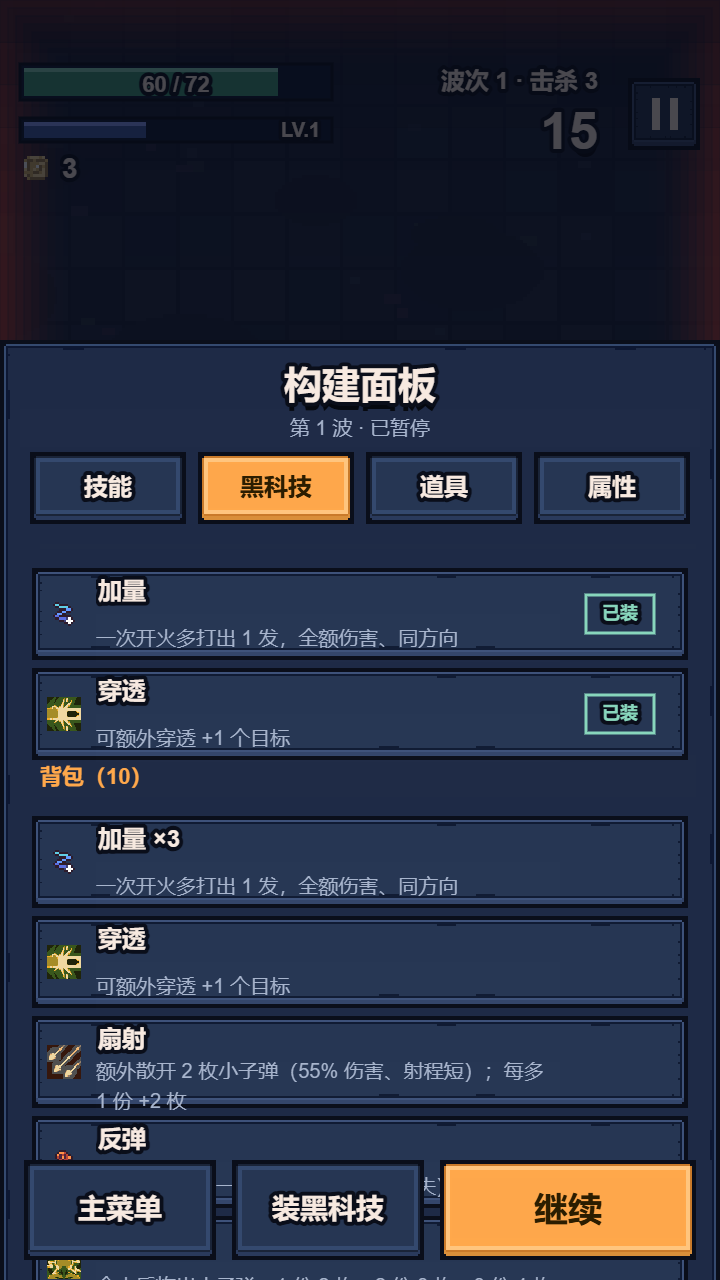
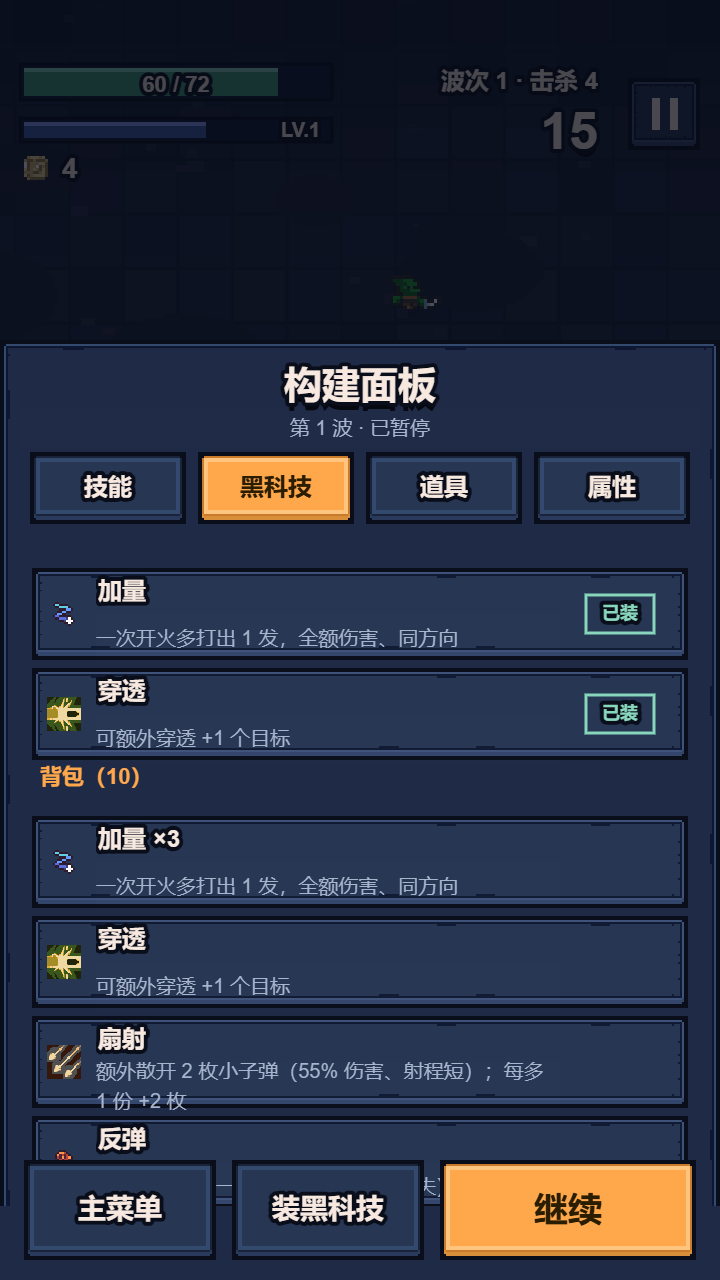
图鉴详情卡排版修复；图鉴/成就/抽屉只渲染完整行；图鉴看到即解锁（商店货架+升级卡）；抽屉底部加底板

diff --git a/cocos/assets/scripts/ui/Modals.ts b/cocos/assets/scripts/ui/Modals.ts
@@ -600,7 +600,7 @@ export function buildBuildDrawer(parent: Node, pages: BuildPageData[],
   // ── 黑科技页：结构化列表（图标 + 名称/数量 + 效果），**已装与背包分开** ──
   // 可视窗口本身要**有真实尺寸**，否则触摸事件不会落在它上面（这是滚不动的真因）
   const VIEW_TOP = bodyY + 12;
-  const VIEW_BOTTOM = -VH / 2 + 92;
+  const VIEW_BOTTOM = -VH / 2 + 120;   // 让列表停在按钮带更上方，配合底部底板彻底不重叠
   const VIEW_H = Math.max(40, VIEW_TOP - VIEW_BOTTOM);
   const VIEW_CY = (VIEW_TOP + VIEW_BOTTOM) / 2;
   const modRoot = mkNode(drawer, 'modDetail', VW - 8, VIEW_H, 0, VIEW_CY);
@@ -654,8 +654,10 @@ export function buildBuildDrawer(parent: Node, pages: BuildPageData[],
     let cursor = top;
     for (const l of lines) {
       const h = l.kind === 'head' ? HEAD_H : ROW_H + ROW_GAP;
-      // 只画视口内的项
-      if (cursor < -VIEW_H / 2 - h || cursor - h > VIEW_H / 2 + 8) { cursor -= h; continue; }
+      // 只画**完整落在视口内**的项：半截行会溢到下面的按钮带上（用户 2026-10-30 截图）
+      const bottom = cursor - h;
+      if (l.kind === 'row' && (bottom < -VIEW_H / 2 + 2 || cursor > VIEW_H / 2 - 2)) { cursor -= h; continue; }
+      if (l.kind === 'head' && (bottom < -VIEW_H / 2 + 2 || cursor > VIEW_H / 2 - 2)) { cursor -= h; continue; }
       if (l.kind === 'head') {
         text(modRoot, -W / 2 + 4, cursor - 4, l.label,
           { size: 11, color: COL.accent, align: 'left', width: W, bold: true, outline: false });
@@ -722,6 +724,16 @@ export function buildBuildDrawer(parent: Node, pages: BuildPageData[],
   //    左右边距 12，按钮间距 8，可用宽 336：
   //      两个按钮：96 + 8 + 232 = 336
   //      三个按钮：96 + 8 + 96 + 8 + 128 = 336
+  // 底部按钮带垫一块**不透明底板**：滚动页的溢出内容会被它挡住（虚拟化仍会漏半行）
+  {
+    const plateY = -VH / 2 + B + 60;      // 覆盖按钮带并往上多 40px
+    const plate = mkNode(drawer, 'btnPlate', VW, 128, 0, plateY);
+    const pg = plate.addComponent(Graphics);
+    pg.fillColor = COL.bg2;
+    pg.rect(-VW / 2, -64, VW, 128);
+    pg.fill();
+  }
+
   const by = -VH / 2 + B + 0;
   const m = button(root, A(12 + 48, 0).x, by + 25, 96, 50, '主菜单', { size: 14 });
   onTap(m.node, onMenu);

diff --git a/cocos/assets/scripts/ui/CodexScreens.ts b/cocos/assets/scripts/ui/CodexScreens.ts
@@ -128,9 +128,10 @@ function showDetail(parent: Node, vw: number, vh: number, e: CodexEntry, onClose
   const box = panel(root, c.x, c.y, W, H, { art: 'panel' });
   const art = mkNode(box, 'art', 64, 64, 0, H / 2 - 58);
   drawEntryArt(art, e, 64, true);
-  title(box, H / 2 - 108, e.name, { width: W - 30 });
-  text(box, 0, H / 2 - 132, e.sub, { size: 10, color: COL.dim, width: W - 30, outline: false });
-  text(box, 0, -6, e.desc ?? '', { size: 11, color: COL.cream, width: W - 36, h: 76 });
+  title(box, H / 2 - 104, e.name, { width: W - 30 });
+  text(box, 0, H / 2 - 130, e.sub, { size: 10, color: COL.dim, width: W - 30, outline: false });
+  // 描述单独占一块（原来和 sub 都在 y≈-6，两行字直接叠在一起）
+  text(box, 0, -22, e.desc ?? '', { size: 11, color: COL.cream, width: W - 36, h: 68 });
   const btn = button(box, 0, -H / 2 + 32, 180, 44, '关闭', { primary: true, size: 15 });
   onTap(btn.node, onClose);
   return root;
@@ -191,6 +192,8 @@ export function buildCodex(parent: Node, save: SaveData, onBack: () => void): No
       if (!e) continue;
       const known = (save.seen ?? []).includes(e.id);
       const y = topY - i * PITCH;
+      // 只画完整落在视口内的行（半截行会压到下方的返回键上）
+      if (y - ROW_H / 2 < -viewH / 2 + 2 || y + ROW_H / 2 > viewH / 2 - 2) continue;
       const row = panel(viewport, 0, y, ROW_W, ROW_H, { art: known ? 'panel_soft' : 'well' });
       const iconHost = mkNode(row, 'iconHost', 34, 34, -ROW_W / 2 + 25, 0);
       drawEntryArt(iconHost, e, 34, known);
@@ -266,6 +269,7 @@ export function buildAchievements(parent: Node, save: SaveData, onBack: () => vo
       const v = views[i];
       if (!v) continue;
       const y = topY - i * PITCH;
+      if (y - ROW_H / 2 < -viewH / 2 + 2 || y + ROW_H / 2 > viewH / 2 - 2) continue;
       const row = panel(viewport, 0, y, ROW_W, ROW_H, { art: v.done ? 'rim_gold' : 'panel_soft' });
       text(row, -ROW_W / 2 + 12, 8, v.def.name,
         { size: 13, color: v.done ? COL.accent : COL.cream, align: 'left', width: 200, bold: true, outline: true });

diff --git a/cocos/assets/scripts/GameRoot.ts b/cocos/assets/scripts/GameRoot.ts
@@ -251,6 +251,11 @@ export class GameRoot extends Component {
 
   // ---------- 5. 升级 3 选 1 ----------
   private showLevelUp(rewards: Reward[]) {
+    // 图鉴：升级卡里出现过的内容也算"见过"（不用拿）
+    for (const r of rewards) {
+      if (r.kind === 'skill' || r.kind === 'skillup') this.markSeen('skill:' + r.id);
+      else if (r.kind === 'item') this.markSeen('item:' + r.id);
+    }
     this.pendingRewards = rewards;
     this.closeModal();
     try {
@@ -607,6 +612,10 @@ private installReturn: 'levelup' | 'pause' | 'shop' | 'nextwave' = 'levelup';
 
   /** 商店构建的统一入口：构建失败时直接开下一波，别把人卡在空商店里 */
   private renderShop() {
+    // 图鉴：商店货架上摆出来的东西也算"见过"
+    for (const s2 of this.battle.rs.shopStock ?? []) {
+      if (s2.kind === 'item') this.markSeen('item:' + s2.id);
+    }
     try {
       this.renderShopUnsafe();
     } catch (e) {
